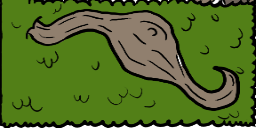
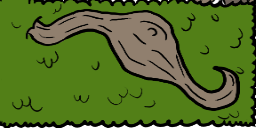
feat: more assets implemented

Changed region(s): [[0.0, 0.0, 0.0312, 0.9688], [0.6875, 0.4375, 0.7188, 0.5312]]

diff --git a/Scenes/Scene.cs b/Scenes/Scene.cs
@@ -163,6 +163,9 @@ private Vector2 _checkpoint;
             _map.SetObjectTexture("plat_solida1", content.Load<Texture2D>("visual/plat_solid_1"));
             _map.SetObjectTexture("recarga_2", content.Load<Texture2D>("visual/recarga2"));
             _map.SetObjectTexture("espinhos1", content.Load<Texture2D>("visual/espinhos1"));
+            _map.SetObjectTexture("teto", content.Load<Texture2D>("visual/teto"));
+            _map.SetObjectTexture("plat_solida3", content.Load<Texture2D>("visual/plat_solid3"));
+            _map.SetObjectTexture("recarga_1", content.Load<Texture2D>("visual/recarga1"));
         }
         if (IsAffordance) _interactionFont = content.Load<SpriteFont>("patrick");
         _propVisualPresentation?.LoadContent(content);
